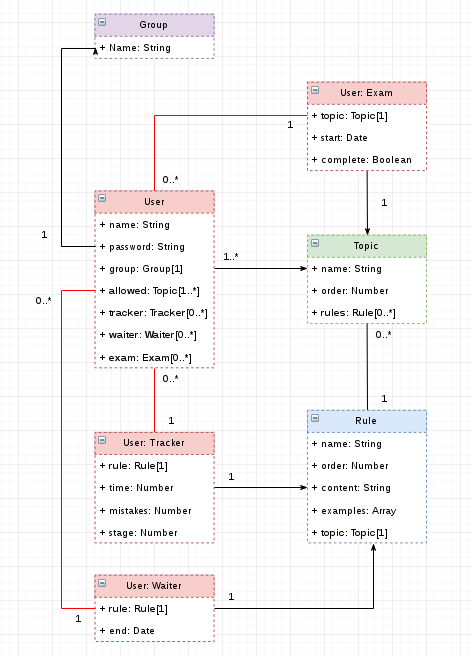
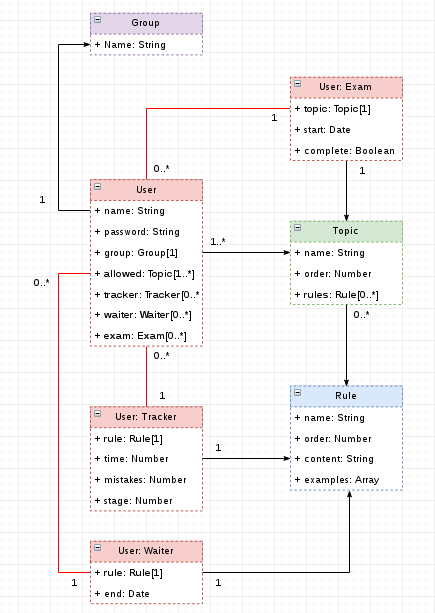
added routes to add rules and examples (#TE-8)

diff --git a/controllers/rule.js b/controllers/rule.js
@@ -1,0 +1,90 @@
+// Dependencies
+const mongoose = require('mongoose');
+const async    = require('async');
+
+const Topic = mongoose.model('Topic');
+const Rule = mongoose.model('Rule');
+
+// ------------------------------------------------------------------
+
+module.exports.add = function(req, res) {
+
+	async.waterfall([
+
+		// Create new rule
+		function(callback) {
+			
+			let new_rule = new Rule({
+				_id: new mongoose.Types.ObjectId(),
+				name: req.body.name,
+				content: req.body.content,
+				example: req.body.example
+			});
+
+			Rule.findOne().sort('-order').exec(function(err, rule) {
+				if (err) return res.send(err);
+				if (rule == null) new_rule.order = 1;
+				else new_rule.order = rule.order + 1;
+
+			});
+
+			Topic.findOne({name: req.body.topic})
+			.exec(function(err, topic){
+
+				if (err) return res.send(err);
+				new_rule.topic = topic._id;
+
+				callback(null, topic, new_rule);
+			});
+
+		},
+
+
+		// Check name of rule
+		function(topic, rule, callback){
+
+			Rule.findOne(
+				{name: rule.name, topic: topic._id},
+
+				function(err, rule){
+					
+					if (rule !== null) {
+						return res.send('Taken name in this topic');
+					}
+
+					if (rule == null) callback(null, rule);
+				}
+			);
+		},
+
+		// Save new rule
+		function(rule, callback) {
+
+			rule.save(function(err, rule){
+				if (err) res.send(err);
+				callback(null, rule);
+			});
+		}	
+
+	// Update topic
+	], function(err, rule){
+		if (err) return res.send(err);
+
+		Topic.findOneAndUpdate(
+
+			{name: req.body.topic},
+			{ $addToSet: { rule: rule._id } },
+
+			function(err, topic) {
+				if (err) return res.send(err);
+
+				res.json({ 
+					name: rule.name,
+					content: rule.content,
+					example: rule.example,
+					order : rule.order
+				});
+			}
+		);
+	});
+};

diff --git a/controllers/topic.js b/controllers/topic.js
@@ -28,7 +28,7 @@ module.exports.add = function(req, res) {
 
 	// Save new topic	
 	], function (err, topic) {
-		if (err) console.log(err);
+		if (err) return res.send(err);
 
 		topic.save(function(err, topic){
 			if (err) res.send(err);
@@ -43,9 +43,22 @@ module.exports.add = function(req, res) {
 // ------------------------------------------------------------------
 
 module.exports.update = function(req, res) {
-
+	
+	Topic.findOneAndUpdate(
+		
+		{ name: req.body.old_name },
+		{ $set: { name: req.body.new_name} },
+		{ new: true },
+		
+		function(err, topic) {
+			if (err) return res.send(err);
+			res.json({ 
+				name : topic.name,
+				order : topic.order
+			});
+		}
+	);
 };
-
 
 // ------------------------------------------------------------------
 
@@ -53,10 +66,9 @@ module.exports.remove = function(req, res) {
 	
 	Topic.findOneAndRemove({name: req.body.topic})
 	.exec(function (err, topic) {
-		if (err) return res.send(err);
-		if (!topic) return res.send("No topics found\n");
+		if (err) return res.json({status: err });
+		if (!topic) return res.json({ status: "No topics found" });
 		
-		res.send(req.body.topic + " has removed\n");
+		res.json({ status: true });
 	});
-
 };

diff --git a/routes/admin.js b/routes/admin.js
@@ -4,9 +4,9 @@ const express   = require('express');
 const jwt       = require('jsonwebtoken');
 const router    = express.Router();
 
-
 const permission = require('../controllers/permission');
 const topic      = require('../controllers/topic');
+const rule       = require('../controllers/rule');
 
 // ------------------------------------------------------------------
 
@@ -14,6 +14,12 @@ const topic      = require('../controllers/topic');
 router.post('/add-topic', permission, topic.add);
 router.post('/up-topic', permission, topic.update);
 router.post('/del-topic', permission, topic.remove);
+
+// ------------------------------------------------------------------
+
+// add / update / remove topic
+router.post('/add-rule', permission, rule.add);
+
 
 // ------------------------------------------------------------------
 

diff --git a/models/rule.js b/models/rule.js
@@ -8,7 +8,7 @@ const ruleSchema = new Schema({
 	example: [String],
 	topic: {
 		type: Schema.Types.ObjectId,
-		ref: 'Topic'
+		ref: 'Rule'
 	}
 });
 

diff --git a/ROUTES.md b/ROUTES.md
@@ -1,8 +1,8 @@
 # Routes
 
-## Admin functionality
+## Topics management
 
-### Add Topic
+### Add topic (for admins)
 
 ```http
 POST /add-topic
@@ -12,8 +12,8 @@ POST /add-topic
 
 ```json
 {
-  "token": "Esf24#rsaf...",
-  "topic": "New Topic"
+  "token" : "Esf24#rsaf...",
+  "topic" : "New Topic"
 }
 ```
 
@@ -22,7 +22,84 @@ POST /add-topic
 ```json
 {
   "name" : "New Topic",
-  "order": 1
+  "order" : 1
+}
+```
+
+### Update topic (for admins)
+
+```http
+POST /up-topic
+```
+
+*Request*
+
+```json
+{
+  "token" : "Esf24#rsaf...",
+  "old_name" : "New Topic",
+  "new_name" : "Update Topic"
+}
+```
+
+*Successful Response*
+
+```
+{
+  "name" : "Update Topic",
+  "order" : 1
+}
+```
+
+### Remove topic (for admins)
+
+```http
+POST /del-topic
+```
+
+*Request*
+
+```json
+{
+  "token" : "Esf24#rsaf...",
+  "topic" : "Topic Name"
+}
+```
+
+*Successful Response*
+
+```json
+{
+  "status" : true
+}
+```
+
+## Rules management
+
+### Add rule (for admins)
+
+```http
+POST /add-rule
+```
+
+*Request*
+
+```json
+{
+  "token" : "Esf24#rsaf...",
+  "name" : "New Rule",
+  "content" : "md",
+  "example" : ["md1", "md2"...],
+  "topic" : "Topic Name"
+}
+```
+
+*Successful Response*
+
+```json
+{
+  "name" : "New Rule",
+  "order" : 1
 }
 ```
 
